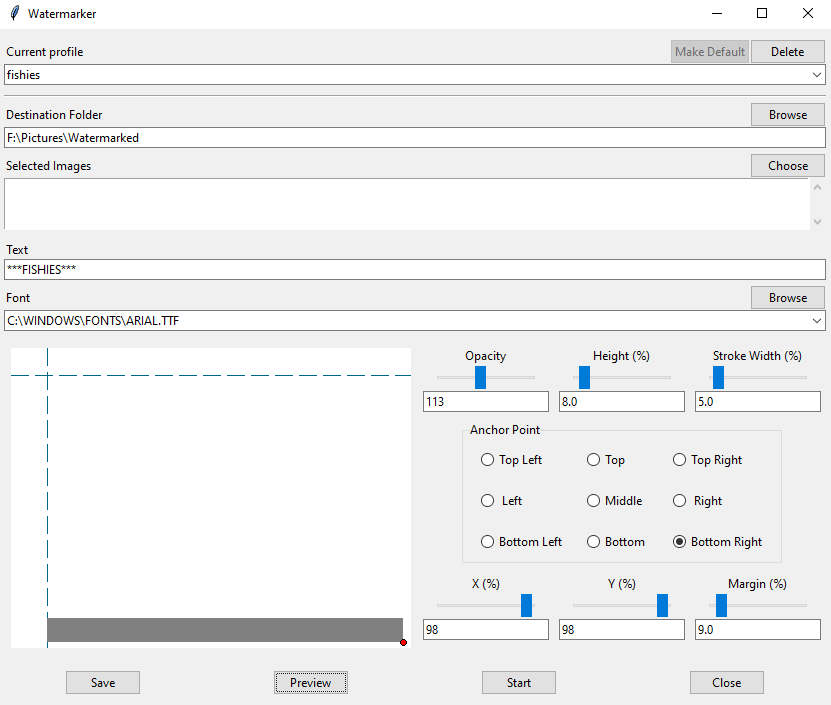
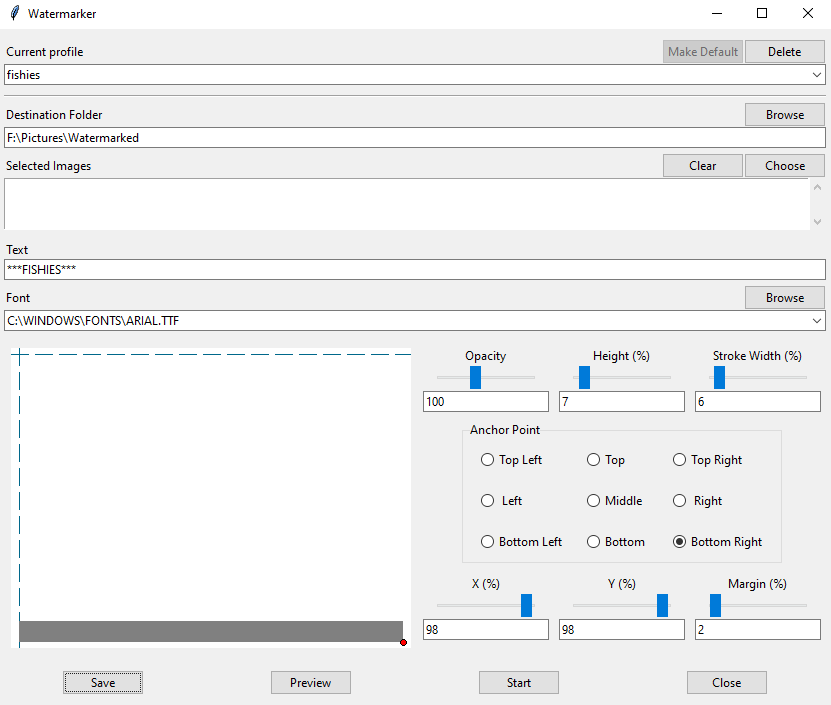
Update readme

diff --git a/README.md b/README.md
@@ -43,8 +43,10 @@ The save profile that is used currently. Each profile stores watermark configura
 Determines where the watermarked images will be saved. If the folder doesn't exist, it will be created when the watermarking process is started.
 
 #### Selected Images
+Images that are selected to be watermarked.
 
-Use the 'Choose' button to choose the files that are to be watermarked.
+ - **Clear button**: Clear selection
+ - **Choose button**: Open a file browser to choose the images that are to be watermarked.
 
 #### Watermark Text
 
@@ -74,7 +76,7 @@ This frame shows a representation of the positioning that the current settings a
 #### Buttons
 
 - **Save**: Saves the configuration on screen to a file.
-- **Preview**: Opens a window showing a preview generated based on the current settings
+- **Preview**: Opens a window showing a preview generated based on the current settings. The image used for the preview is either the first selected image, or a default image if there are no images selected for watermarking.
 - **Start**: Starts watermarking the selected images using the parameters on screen.
 - **Close**: Close the window.
 
